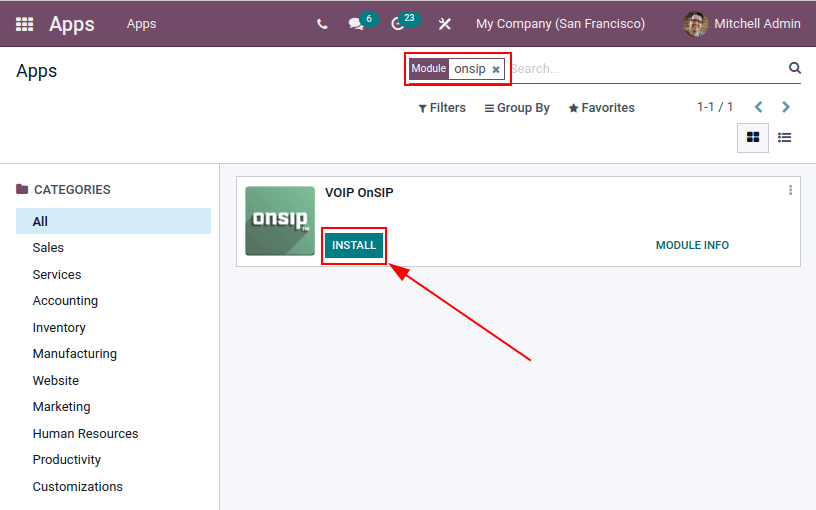
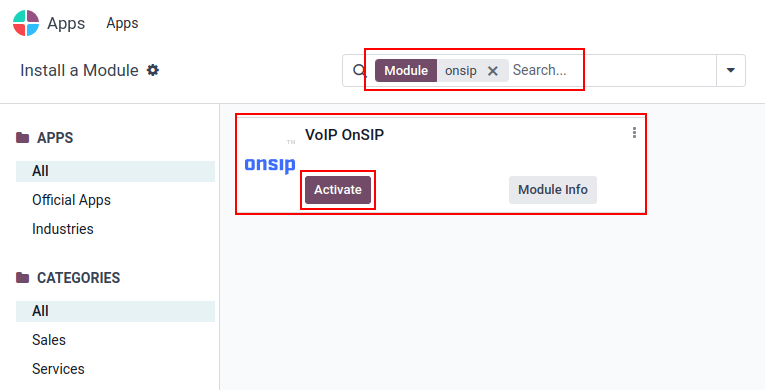
[IMP] misc: voip onsip version 17 changes
closes odoo/documentation#7945

X-original-commit: befe1d0c8d3e9734482d908242c6c16bae056bae

diff --git a/content/applications/general/voip/onsip.rst b/content/applications/general/voip/onsip.rst
@@ -19,9 +19,9 @@ Configuration
 
 To configure the Odoo database to connect to OnSIP services, first navigate to the
 :menuselection:`Apps application` from the main Odoo dashboard. Then, remove the default `Apps`
-filter from the :guilabel:`Search...` bar, and search for `VoIP OnSIP`.
+filter from the :guilabel:`Search...` bar, and search for `OnSIP`.
 
-Next, install the :guilabel:`VOIP OnSIP` module.
+Next, activate the :guilabel:`VOIP OnSIP` module.
 
 .. image:: onsip/install-onsip.png
    :align: center
@@ -73,10 +73,10 @@ In this section, fill in the fields with OnSIP credentials.
 
 Fill in the following fields with the associated credentials listed below:
 
-- :guilabel:`SIP Login` / :guilabel:`Browser's Extension` = OnSIP :guilabel:`Username`
-- :guilabel:`OnSIP authorization User` = OnSIP :guilabel:`Auth Username`
-- :guilabel:`Handset Extension` = OnSIP :guilabel:`Ext.` (extension without the `x`)
-- :guilabel:`SIP Password` = OnSIP :guilabel:`SIP Password`
+- :guilabel:`Voip Username` = OnSIP :guilabel:`Username`
+- :guilabel:`OnSIP Auth Username` = OnSIP :guilabel:`Auth Username`
+- :guilabel:`VoIP Secret` = OnSIP :guilabel:`SIP Password`
+- :guilabel:`External Device Number` = OnSIP :guilabel:`Ext.` (extension without the `x`)
 
 .. image:: onsip/onsip-creds.png
    :align: center
@@ -86,10 +86,9 @@ Fill in the following fields with the associated credentials listed below:
 .. tip::
    The OnSIP extension can be found in the *User* banner line above the tabs.
 
-When these steps are complete, click :guilabel:`Save` on the user form in Odoo to save the
-configurations.
+When these steps are complete, navigate away from the user form in Odoo to save the configurations.
 
-Once saved, Odoo users can make phone calls by clicking the :guilabel:`📞 (phone)` icon in the
+Once saved, Odoo users can make phone calls by clicking the :guilabel:`☎ (phone)` icon in the
 top-right corner of Odoo.
 
 .. seealso::
